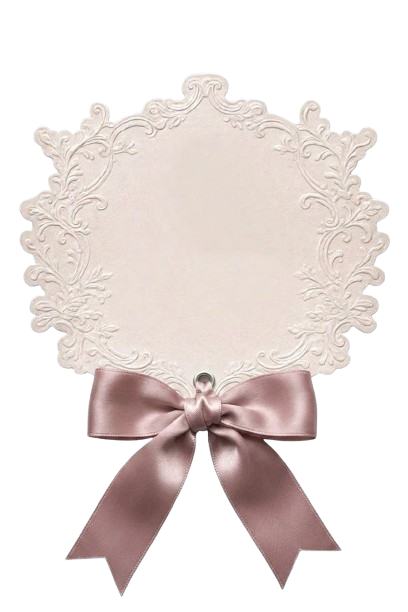
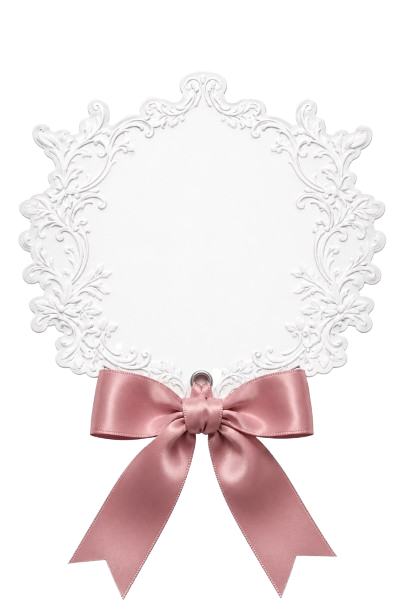
se coloca fondo monograma y se edita tocadisco perro

diff --git a/index.html b/index.html
@@ -13,7 +13,7 @@
      menos de 300 KB) al repositorio. -->
 <meta property="og:title" content="Michelle &amp; José · ¡Nos casamos!">
 <meta property="og:description" content="Sábado 7 de noviembre de 2026 · Guayaquil. Toca para abrir tu invitación.">
-<meta property="og:image" content="https://donkuma.github.io/Michelle-Jose/fotos/DSC_2487.jpg">
+<meta property="og:image" content="https://donkuma.github.io/Michelle-Jose/fotos/hero.jpg">
 <meta property="og:url" content="https://donkuma.github.io/Michelle-Jose/">
 <meta property="og:type" content="website">
 <meta name="twitter:card" content="summary_large_image">
@@ -59,7 +59,7 @@ const CONFIG = {
   // Foto principal del hero.
   // Sube tus fotos a la carpeta "fotos/" del repositorio de GitHub
   // respetando estos nombres exactos (minúsculas, sin espacios).
-  fotoHero: "fotos/DSC_2487.jpg",
+  fotoHero: "fotos/hero.jpg",
 
   ceremonia: {
     titulo:"Ceremonia", lugar:"Iglesia San Francisco",
@@ -147,7 +147,6 @@ const CONFIG = {
   galeria: [
     "fotos/DSC_2833.jpg",
     "fotos/DSC_2836.jpg",
-    "fotos/DSC_2880.jpg",
     "fotos/DSC_2889.jpg",
     "fotos/DSC_2943.jpg",
     "fotos/DSC_3025.jpg"
@@ -290,13 +289,20 @@ const CONFIG = {
 
   /* ════════ HERO ════════ */
   section{position:relative}
-  .hero{min-height:100svh;display:flex;flex-direction:column;align-items:center;justify-content:center;text-align:center;padding:80px 24px}
-  .htop{font-family:'Cormorant Garamond',serif;font-weight:500;text-transform:uppercase;letter-spacing:.34em;color:var(--ink-soft);font-size:clamp(1rem,3.6vw,1.5rem)}
+  .hero{min-height:100svh;display:flex;flex-direction:column;align-items:center;justify-content:center;text-align:center;padding:80px 24px;
+    background:
+      linear-gradient(rgba(0,0,0,.28),rgba(0,0,0,.28)),
+      url('fotos/Fondo incial.jpg') center 20%/cover no-repeat}
+  .htop{font-family:'Cormorant Garamond',serif;font-weight:500;text-transform:uppercase;letter-spacing:.34em;color:var(--cream);font-size:clamp(1rem,3.6vw,1.5rem);
+    text-shadow:0 2px 10px rgba(0,0,0,.55),0 1px 3px rgba(0,0,0,.8)}
   .hero-emboss{margin:10px auto 6px;width:clamp(220px,64vw,380px);position:relative}
-  .hero-emboss img{width:100%;opacity:.18;filter:drop-shadow(0 1px 0 rgba(255,255,255,.9)) drop-shadow(0 -1px 1px rgba(67,48,42,.24))}
-  .hdate{margin-top:6px;font-size:.78rem;letter-spacing:.4em;text-transform:uppercase;color:var(--dark-terra)}
-  .scroll-cue{margin-top:46px;color:var(--terra);font-size:.6rem;letter-spacing:.3em;text-transform:uppercase}
-  .scroll-cue::after{content:"";display:block;width:1px;height:30px;background:var(--terra);margin:8px auto 0;opacity:.5}
+  .hero-emboss img{width:100%;opacity:.85;filter:drop-shadow(0 2px 10px rgba(0,0,0,.65)) drop-shadow(0 0 3px rgba(0,0,0,.5))}
+  .hdate{margin-top:6px;font-size:.78rem;letter-spacing:.4em;text-transform:uppercase;color:var(--cream);
+    text-shadow:0 2px 10px rgba(0,0,0,.55),0 1px 3px rgba(0,0,0,.8)}
+  .scroll-cue{margin-top:46px;color:var(--cream);font-size:.6rem;letter-spacing:.3em;text-transform:uppercase;
+    text-shadow:0 2px 10px rgba(0,0,0,.55),0 1px 3px rgba(0,0,0,.8)}
+  .scroll-cue::after{content:"";display:block;width:1px;height:30px;background:var(--cream);margin:8px auto 0;opacity:.85;
+    box-shadow:0 0 6px rgba(0,0,0,.6)}
 
   /* ════════ TOCADISCOS ════════ */
   .turntable-wrap{position:relative;background:var(--cream);text-align:center;padding:64px 24px 46px;
@@ -307,13 +313,20 @@ const CONFIG = {
   @keyframes tt-glow-pulse{0%,100%{transform:translateX(-50%) scale(1);opacity:.22}50%{transform:translateX(-50%) scale(1.15);opacity:.4}}
   .turntable{position:relative;display:inline-flex;flex-direction:column;align-items:center;gap:18px}
 
-  .tt-base{position:relative;width:216px;padding:22px 20px 18px;border-radius:12px;
-    background:linear-gradient(155deg,#7a5138,#4d3120 55%,#3a2417);
-    box-shadow:0 22px 38px -18px rgba(0,0,0,.55),inset 0 1px 0 rgba(255,255,255,.1),inset 0 -10px 18px rgba(0,0,0,.35)}
-  .tt-base::before{content:"";position:absolute;inset:8px;border:1px solid rgba(255,255,255,.08);border-radius:8px;pointer-events:none}
-  .tt-plate{position:relative;width:150px;height:150px;margin:0 auto;border-radius:50%;
+  .tt-base{position:relative;width:min(92vw,460px);padding:28px 26px 22px;border-radius:18px;
+    background:
+      repeating-linear-gradient(135deg,rgba(255,255,255,.035) 0 2px,transparent 2px 6px),
+      radial-gradient(circle at 17px 17px,#241209 0 3px,transparent 3.5px),
+      radial-gradient(circle at calc(100% - 17px) 17px,#241209 0 3px,transparent 3.5px),
+      radial-gradient(circle at 17px calc(100% - 17px),#241209 0 3px,transparent 3.5px),
+      radial-gradient(circle at calc(100% - 17px) calc(100% - 17px),#241209 0 3px,transparent 3.5px),
+      linear-gradient(155deg,#7a5138,#4d3120 55%,#3a2417);
+    box-shadow:0 26px 42px -18px rgba(0,0,0,.6),inset 0 1px 0 rgba(255,255,255,.1),inset 0 -10px 18px rgba(0,0,0,.35)}
+  .tt-base::before{content:"";position:absolute;inset:8px;border:1px solid rgba(255,255,255,.08);border-radius:14px;pointer-events:none}
+  .tt-base::after{content:"";position:absolute;inset:13px;border:1px solid rgba(0,0,0,.22);border-radius:10px;pointer-events:none}
+  .tt-plate{position:relative;width:150px;height:150px;margin:0 auto;border-radius:50%;flex:none;
     background:radial-gradient(circle,#2a2a2a,#161616 85%);
-    box-shadow:0 6px 14px rgba(0,0,0,.55),inset 0 0 0 5px rgba(0,0,0,.3)}
+    box-shadow:0 6px 14px rgba(0,0,0,.55),inset 0 0 0 5px rgba(0,0,0,.3),0 0 0 3px rgba(230,215,192,.2),0 0 0 4px rgba(0,0,0,.3)}
   .tt-vinyl{position:absolute;inset:8px;border-radius:50%;
     background:
       conic-gradient(from 0deg,rgba(255,255,255,.22) 0deg,transparent 40deg,transparent 320deg,rgba(255,255,255,.14) 360deg),
@@ -339,8 +352,10 @@ const CONFIG = {
     width:16px;height:8px;border-radius:2px;background:linear-gradient(90deg,#d8c4a0,#f1e4c6)}
   .tt-arm.playing{transform:rotate(24deg)}
   @keyframes tt-spin{to{transform:rotate(360deg)}}
-  .tt-plaque{margin-top:14px;font-family:'Cormorant Garamond',serif;font-style:italic;font-size:.72rem;
+  .tt-plaque{position:relative;margin-top:16px;padding-top:12px;font-family:'Cormorant Garamond',serif;font-style:italic;font-size:.72rem;
     letter-spacing:.16em;color:#e6d7c0;opacity:.7}
+  .tt-plaque::before{content:"";position:absolute;top:0;left:50%;transform:translateX(-50%);width:64px;height:1px;
+    background:linear-gradient(90deg,transparent,rgba(230,215,192,.55),transparent)}
 
   .tt-btn{width:50px;height:50px;border-radius:50%;border:none;background:var(--dark-terra);color:var(--cream);
     display:flex;align-items:center;justify-content:center;cursor:pointer;transition:background .3s;
@@ -348,23 +363,29 @@ const CONFIG = {
   .tt-btn svg{margin-left:1px}
   .tt-btn:hover{background:var(--ink)}
 
-  .tt-row{display:flex;align-items:center;justify-content:center}
-  .tt-dogs{position:relative;z-index:1;display:flex;align-items:flex-end;justify-content:center;gap:4px;margin-top:20px}
-  .tt-side-photo{height:200px;width:auto;max-width:220px;object-fit:contain}
-  @media(max-width:560px){.tt-side-photo{height:140px;max-width:160px}}
+  .tt-row{position:relative;z-index:1;display:flex;align-items:center;justify-content:center}
+  .tt-stage{display:flex;align-items:center;justify-content:center;flex-wrap:wrap}
+  .tt-dogs{display:flex;align-items:flex-end}
+  .tt-dogs .tt-side-photo:last-child{margin-left:-24px}
+  .tt-side-photo{height:150px;width:auto;max-width:120px;object-fit:contain;filter:drop-shadow(0 6px 10px rgba(0,0,0,.35))}
+  @media(max-width:560px){
+    .tt-base{padding:20px 16px 16px}
+    .tt-side-photo{max-width:85px}
+    .tt-dogs .tt-side-photo:last-child{margin-left:-16px}
+  }
 
-  .tt-hearts{position:absolute;inset:0;pointer-events:none;overflow:hidden}
-  .tt-heart{position:absolute;bottom:30px;color:var(--terra);opacity:0;
+  .tt-hearts{position:absolute;inset:0;z-index:2;pointer-events:none;overflow:hidden}
+  .tt-heart{position:absolute;bottom:30px;color:#e0263f;opacity:0;
     animation:tt-heart-float 4.2s ease-in infinite;animation-play-state:paused}
   .tt-hearts.spinning .tt-heart{animation-play-state:running}
-  .tt-heart:nth-child(1){left:4%;font-size:2.4rem;animation-delay:.1s;color:var(--terra)}
-  .tt-heart:nth-child(2){left:18%;font-size:1.9rem;animation-delay:1.7s;color:var(--dusty)}
-  .tt-heart:nth-child(3){left:32%;font-size:2.5rem;animation-delay:.9s;color:var(--dark-terra)}
-  .tt-heart:nth-child(4){left:46%;font-size:1.75rem;animation-delay:2.6s;color:var(--terra)}
-  .tt-heart:nth-child(5){left:60%;font-size:2.3rem;animation-delay:.4s;color:var(--dusty)}
-  .tt-heart:nth-child(6){left:73%;font-size:2rem;animation-delay:2s;color:var(--dark-terra)}
-  .tt-heart:nth-child(7){left:86%;font-size:2.6rem;animation-delay:3.3s;color:var(--terra)}
-  .tt-heart:nth-child(8){left:94%;font-size:1.75rem;animation-delay:1.2s;color:var(--dusty)}
+  .tt-heart:nth-child(1){left:4%;font-size:3.6rem;animation-delay:.1s;color:#e0263f}
+  .tt-heart:nth-child(2){left:18%;font-size:2.9rem;animation-delay:1.7s;color:#ff4d5e}
+  .tt-heart:nth-child(3){left:32%;font-size:3.8rem;animation-delay:.9s;color:#c81e3a}
+  .tt-heart:nth-child(4){left:46%;font-size:2.6rem;animation-delay:2.6s;color:#e0263f}
+  .tt-heart:nth-child(5){left:60%;font-size:3.5rem;animation-delay:.4s;color:#ff4d5e}
+  .tt-heart:nth-child(6){left:73%;font-size:3rem;animation-delay:2s;color:#c81e3a}
+  .tt-heart:nth-child(7){left:86%;font-size:3.9rem;animation-delay:3.3s;color:#e0263f}
+  .tt-heart:nth-child(8){left:94%;font-size:2.6rem;animation-delay:1.2s;color:#ff4d5e}
   @keyframes tt-heart-float{
     0%{transform:translateY(0) scale(.6);opacity:0}
     18%{opacity:.85}
@@ -674,9 +695,15 @@ const CONFIG = {
   <div class="tt-row">
     <div class="turntable">
       <div class="tt-base">
-        <div class="tt-plate">
-          <div class="tt-vinyl" id="ttVinyl"><div class="tt-label"></div></div>
-          <div class="tt-arm" id="ttArm"></div>
+        <div class="tt-stage">
+          <div class="tt-dogs">
+            <img class="tt-side-photo" src="fotos/perrito-izquierda.png" alt="" onerror="this.remove()">
+            <img class="tt-side-photo" src="fotos/perrito-derecha.png" alt="" onerror="this.remove()">
+          </div>
+          <div class="tt-plate">
+            <div class="tt-vinyl" id="ttVinyl"><div class="tt-label"></div></div>
+            <div class="tt-arm" id="ttArm"></div>
+          </div>
         </div>
         <div class="tt-plaque">KUMI - 08/07/2016</div>
       </div>
@@ -685,10 +712,6 @@ const CONFIG = {
         <svg id="ttIconPause" viewBox="0 0 24 24" width="18" height="18" style="display:none"><path fill="currentColor" d="M6 5h4v14H6zM14 5h4v14h-4z"/></svg>
       </button>
     </div>
-  </div>
-  <div class="tt-dogs">
-    <img class="tt-side-photo" src="fotos/perrito-izquierda.png" alt="" onerror="this.remove()">
-    <img class="tt-side-photo" src="fotos/perrito-derecha.png" alt="" onerror="this.remove()">
   </div>
   <audio id="ttAudio" preload="none" loop src="musica/Lady Gaga, Bruno Mars - Die With A Smile (Official Music Video).mp3"></audio>
 </section>